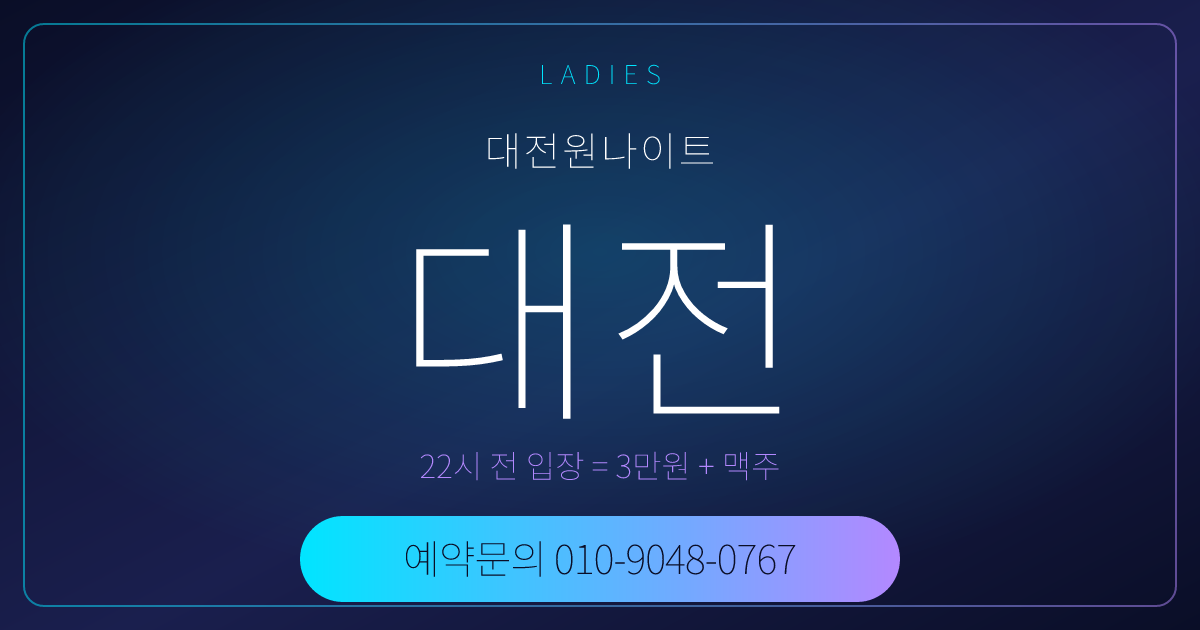
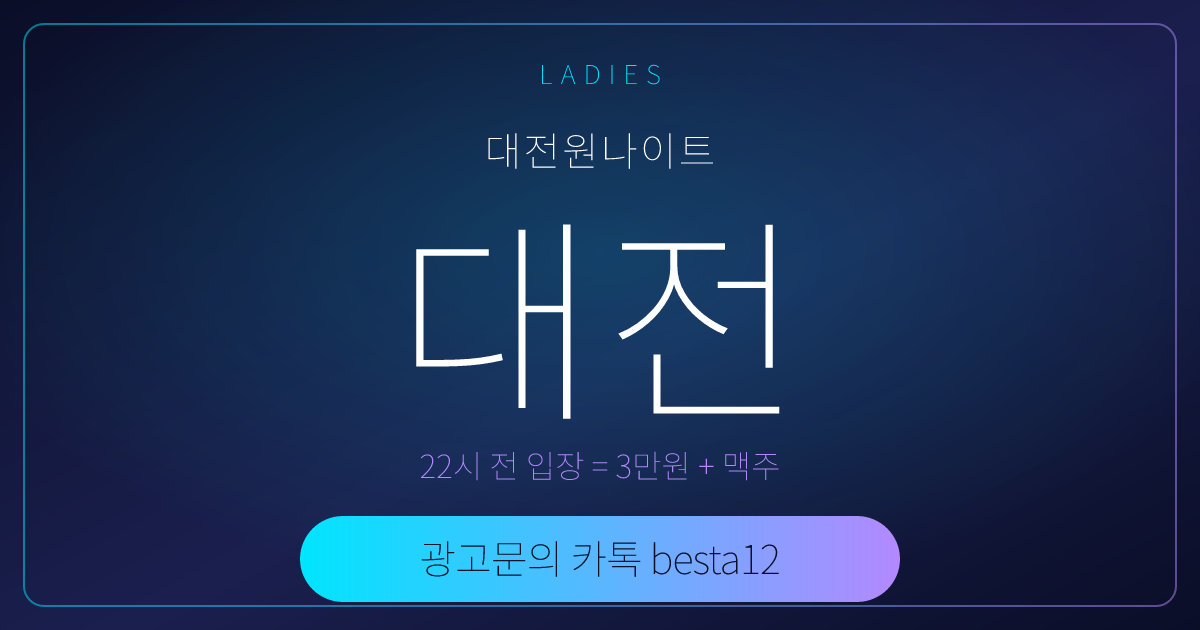
contact: 예약문의 전화(010 9048 0767) → 광고문의 카톡 besta12 전면 교체
- 하단 고정 바: tel: 링크 → 카톡 ID 복사 버튼(besta12)
- 전 페이지 본문·메타 설명·FAQ·JSON-LD 문의 안내 문구 교체
- NightClub/LocalBusiness telephone 속성 제거
- llms.txt 및 OG/네이버 이미지(카톡 besta12) 재생성
- audit-html / audits.yml / schema-validate.yml 검증 기준을 카톡 문구로 변경

Changed region(s): [[0.3392, 0.8444, 0.6475, 0.9349]]

diff --git a/scripts/generate-images.js b/scripts/generate-images.js
@@ -45,16 +45,16 @@ ${defs}
 <rect x="36" y="36" width="1008" height="1008" rx="24" fill="none" stroke="url(#ac)" stroke-width="2" opacity="0.55"/>
 <text x="540" y="150" font-family="Noto Sans KR" font-size="34" font-weight="500" fill="#00E5FF" text-anchor="middle" letter-spacing="10">DAEJEON ONE NIGHT</text>
 <line x1="380" y1="186" x2="700" y2="186" stroke="url(#ac)" stroke-width="2"/>
-<text x="540" y="232" font-family="Noto Sans KR" font-size="24" font-weight="400" fill="#B388FF" text-anchor="middle" letter-spacing="6">38세 이상 입장 · 예약 문의</text>
+<text x="540" y="232" font-family="Noto Sans KR" font-size="24" font-weight="400" fill="#B388FF" text-anchor="middle" letter-spacing="6">38세 이상 입장 · 광고 문의</text>
 <text x="540" y="430" font-family="Noto Sans KR" font-size="148" font-weight="900" fill="#FFFFFF" text-anchor="middle" letter-spacing="-4">대전원나이트</text>
 <rect x="280" y="490" width="520" height="120" rx="60" fill="url(#ac)"/>
-<text x="540" y="572" font-family="Noto Sans KR" font-size="78" font-weight="900" fill="#0A0E27" text-anchor="middle" letter-spacing="-2">예약 문의</text>
+<text x="540" y="572" font-family="Noto Sans KR" font-size="78" font-weight="900" fill="#0A0E27" text-anchor="middle" letter-spacing="-2">광고 문의</text>
 <rect x="60" y="670" width="960" height="120" rx="12" fill="rgba(0,229,255,0.10)" stroke="#00E5FF" stroke-width="2"/>
 <text x="540" y="720" font-family="Noto Sans KR" font-size="28" font-weight="500" fill="#00E5FF" text-anchor="middle">38세 이상 · 신분증 확인 · 카드 결제</text>
 <text x="540" y="762" font-family="Noto Sans KR" font-size="24" font-weight="400" fill="#FFFFFF" text-anchor="middle">평일 20:00 - 02:30 · 주말 20:00 - 03:30</text>
 <rect x="60" y="820" width="960" height="180" rx="12" fill="#FFFFFF"/>
-<text x="540" y="870" font-family="Noto Sans KR" font-size="26" font-weight="500" fill="#0A0E27" text-anchor="middle" letter-spacing="2">예약 · 안내 전화</text>
-<text x="540" y="955" font-family="Noto Sans KR" font-size="72" font-weight="900" fill="#0A0E27" text-anchor="middle" letter-spacing="-2">010-9048-0767</text>
+<text x="540" y="870" font-family="Noto Sans KR" font-size="26" font-weight="500" fill="#0A0E27" text-anchor="middle" letter-spacing="2">광고문의 카카오톡</text>
+<text x="540" y="955" font-family="Noto Sans KR" font-size="72" font-weight="900" fill="#0A0E27" text-anchor="middle" letter-spacing="-2">카톡 besta12</text>
 </svg>`;
 
 render(thumb, 'public/og/og-thumb.png', 1080, 1080);
@@ -68,11 +68,11 @@ ${defs}
 <line x1="460" y1="118" x2="740" y2="118" stroke="url(#ac)" stroke-width="2"/>
 <text x="600" y="252" font-family="Noto Sans KR" font-size="112" font-weight="900" fill="#FFFFFF" text-anchor="middle" letter-spacing="-3">대전원나이트</text>
 <rect x="420" y="290" width="360" height="84" rx="42" fill="url(#ac)"/>
-<text x="600" y="350" font-family="Noto Sans KR" font-size="50" font-weight="900" fill="#0A0E27" text-anchor="middle" letter-spacing="-1">예약 문의</text>
+<text x="600" y="350" font-family="Noto Sans KR" font-size="50" font-weight="900" fill="#0A0E27" text-anchor="middle" letter-spacing="-1">광고 문의</text>
 <text x="600" y="418" font-family="Noto Sans KR" font-size="24" font-weight="400" fill="#B388FF" text-anchor="middle" letter-spacing="3">38세 이상 입장 · 평일 새벽 2시반 · 주말 새벽 3시반</text>
 <rect x="280" y="460" width="640" height="118" rx="10" fill="rgba(0,229,255,0.10)" stroke="#00E5FF" stroke-width="2"/>
-<text x="600" y="503" font-family="Noto Sans KR" font-size="22" font-weight="500" fill="#FFFFFF" text-anchor="middle" letter-spacing="2">예약 · 안내</text>
-<text x="600" y="555" font-family="Noto Sans KR" font-size="44" font-weight="900" fill="#00E5FF" text-anchor="middle" letter-spacing="-1">010-9048-0767</text>
+<text x="600" y="503" font-family="Noto Sans KR" font-size="22" font-weight="500" fill="#FFFFFF" text-anchor="middle" letter-spacing="2">광고문의 카카오톡</text>
+<text x="600" y="555" font-family="Noto Sans KR" font-size="44" font-weight="900" fill="#00E5FF" text-anchor="middle" letter-spacing="-1">카톡 besta12</text>
 </svg>`;
 
 render(home, 'public/og/home.png', 1200, 630);
@@ -98,10 +98,10 @@ render(icon, 'public/favicon-16x16.png', 16, 16);
 
 const pages = [
   { name: 'info', kicker: 'ENTRY GUIDE', title: '38세부터 들어가는 법', sub: '처음이라면 꼭 보는 첫 방문 가이드' },
-  { name: 'hours', kicker: 'HOURS', title: '평일 새벽 2시반까지', sub: '주말은 새벽 3시반 · 예약 문의 응대' },
+  { name: 'hours', kicker: 'HOURS', title: '평일 새벽 2시반까지', sub: '주말은 새벽 3시반 · 카톡 문의 응대' },
   { name: 'ladies', kicker: 'LADIES', title: '22시 전 입장 = 3만원 + 맥주', sub: '교통비 3만원 + 맥주 1병 · 예약 안내' },
   { name: 'faq', kicker: 'FAQ', title: '자주 묻는 13가지 답변', sub: '입장·예약·위치·결제 한 페이지에' },
-  { name: 'contact', kicker: 'CONTACT', title: '예약문의 010-9048-0767', sub: '예약·룸·단체 모두 안내' },
+  { name: 'contact', kicker: 'CONTACT', title: '예약·룸·단체 문의 안내', sub: '예약·룸·단체 모두 안내' },
 ];
 
 pages.forEach((p) => {
@@ -116,7 +116,7 @@ ${defs}
 <text x="600" y="404" font-family="Noto Sans KR" font-size="220" font-weight="900" fill="#FFFFFF" text-anchor="middle" letter-spacing="6">대전</text>
 <text x="600" y="478" font-family="Noto Sans KR" font-size="32" font-weight="500" fill="#B388FF" text-anchor="middle">${p.title}</text>
 <rect x="300" y="516" width="600" height="86" rx="43" fill="url(#ac)"/>
-<text x="600" y="574" font-family="Noto Sans KR" font-size="40" font-weight="900" fill="#0A0E27" text-anchor="middle" letter-spacing="-1">예약문의 010-9048-0767</text>
+<text x="600" y="574" font-family="Noto Sans KR" font-size="40" font-weight="900" fill="#0A0E27" text-anchor="middle" letter-spacing="-1">광고문의 카톡 besta12</text>
 </svg>`;
   render(svg, `public/og/${p.name}.png`, 1200, 630);
 });
@@ -132,8 +132,8 @@ ${defs}
 <text x="540" y="278" font-family="Noto Sans KR" font-size="84" font-weight="700" fill="#FFFFFF" text-anchor="middle" letter-spacing="2">대전원나이트</text>
 <text x="540" y="640" font-family="Noto Sans KR" font-size="300" font-weight="900" fill="#FFFFFF" text-anchor="middle" letter-spacing="10">대전</text>
 <rect x="240" y="720" width="600" height="98" rx="49" fill="url(#ac)"/>
-<text x="540" y="787" font-family="Noto Sans KR" font-size="44" font-weight="900" fill="#0A0E27" text-anchor="middle" letter-spacing="1">예약 · 안내 직통</text>
-<text x="540" y="910" font-family="Noto Sans KR" font-size="82" font-weight="900" fill="#FFFFFF" text-anchor="middle" letter-spacing="-2">010-9048-0767</text>
+<text x="540" y="787" font-family="Noto Sans KR" font-size="44" font-weight="900" fill="#0A0E27" text-anchor="middle" letter-spacing="1">광고문의 카카오톡</text>
+<text x="540" y="910" font-family="Noto Sans KR" font-size="82" font-weight="900" fill="#FFFFFF" text-anchor="middle" letter-spacing="-2">카톡 besta12</text>
 <text x="540" y="972" font-family="Noto Sans KR" font-size="30" font-weight="400" fill="#B388FF" text-anchor="middle">평일 20:00 - 02:30 · 주말 20:00 - 03:30</text>
 </svg>`;
 
@@ -150,8 +150,8 @@ ${defs}
 <text x="540" y="300" font-family="Noto Sans KR" font-size="90" font-weight="900" fill="#FFFFFF" text-anchor="middle" letter-spacing="2">대전원나이트</text>
 <text x="540" y="702" font-family="Noto Sans KR" font-size="380" font-weight="900" fill="url(#ac)" text-anchor="middle" letter-spacing="12">대전</text>
 <rect x="206" y="798" width="668" height="126" rx="63" fill="#FFFFFF"/>
-<text x="540" y="884" font-family="Noto Sans KR" font-size="66" font-weight="900" fill="#0A0E27" text-anchor="middle" letter-spacing="-1">010-9048-0767</text>
-<text x="540" y="1002" font-family="Noto Sans KR" font-size="42" font-weight="700" fill="#00E5FF" text-anchor="middle" letter-spacing="3">새벽까지 논스톱 · 예약문의 직통</text>
+<text x="540" y="884" font-family="Noto Sans KR" font-size="66" font-weight="900" fill="#0A0E27" text-anchor="middle" letter-spacing="-1">카톡 besta12</text>
+<text x="540" y="1002" font-family="Noto Sans KR" font-size="42" font-weight="700" fill="#00E5FF" text-anchor="middle" letter-spacing="3">새벽까지 논스톱 · 광고문의 카톡</text>
 </svg>`;
 
 render(blog, 'public/og/blog.png', 1080, 1080);

diff --git a/components/Schema.tsx b/components/Schema.tsx
@@ -15,16 +15,16 @@ const FAQ_ITEMS = [
     a: '22시 이전 입장 여성 손님에게는 교통비 3만원 지원과 맥주 1병이 기본으로 제공됩니다. 신분증 확인 후 적용되며 운영 정책에 따라 변경될 수 있습니다.',
   },
   { q: '영업 시간은?', a: '평일 20:00 ~ 02:30 / 주말 20:00 ~ 03:30 영업합니다.' },
-  { q: '예약은 어떻게 하나요?', a: '전화 예약을 권장합니다. 예약·문의는 페이지 하단 예약문의 전화로 안내드립니다.' },
-  { q: '위치는 어디인가요?', a: '대전광역시 시내에 위치합니다. 정확한 위치는 예약 시 전화로 안내드립니다.' },
+  { q: '예약은 어떻게 하나요?', a: '카카오톡 문의를 권장합니다. 문의는 페이지 하단 광고문의 카톡 besta12로 안내드립니다.' },
+  { q: '위치는 어디인가요?', a: '대전광역시 시내에 위치합니다. 정확한 위치는 예약 시 카톡 besta12로 안내드립니다.' },
   { q: '드레스코드가 있나요?', a: '깔끔한 캐주얼 복장을 권장합니다. 슬리퍼, 반바지는 제한될 수 있습니다.' },
   { q: '주차는 가능한가요?', a: '주변 공영주차장 이용을 권장합니다.' },
   { q: '카드 결제가 되나요?', a: '네, 카드 결제 가능합니다.' },
-  { q: '룸 예약이 가능한가요?', a: '예약 가능합니다. 직통 전화로 문의해 주세요.' },
+  { q: '룸 예약이 가능한가요?', a: '예약 가능합니다. 카톡 besta12로 문의해 주세요.' },
   { q: '단체 모임도 받나요?', a: '5인 이상 단체는 예약을 권장합니다.' },
   { q: '청주에서 가는 방법은?', a: '자차로 약 30분 거리입니다.' },
   { q: '신분증은 꼭 필요한가요?', a: '네, 입장 연령 확인을 위해 신분증이 필수입니다.' },
-  { q: '문의 채널은?', a: '전화로 안내드립니다. 예약·문의는 페이지 하단 예약문의 전화를 이용해 주세요.' },
+  { q: '문의 채널은?', a: '카카오톡으로 안내드립니다. 문의는 페이지 하단 광고문의 카톡 besta12를 이용해 주세요.' },
 ];
 
 export default function Schema({ path, crumb, pageType = 'WebPage', includeFaq, includeHowTo }: Props) {
@@ -48,7 +48,6 @@ export default function Schema({ path, crumb, pageType = 'WebPage', includeFaq, 
         '@id': `${SITE}/#nightclub`,
         name: '대전원나이트',
         url: `${SITE}/`,
-        telephone: '+82-10-9048-0767',
         address: {
           '@type': 'PostalAddress',
           addressLocality: '대전광역시',
@@ -80,7 +79,6 @@ export default function Schema({ path, crumb, pageType = 'WebPage', includeFaq, 
         '@type': 'LocalBusiness',
         '@id': `${SITE}/#business`,
         name: '대전원나이트',
-        telephone: '+82-10-9048-0767',
         url: `${SITE}/`,
         priceRange: '₩₩',
         image: `${SITE}/og/og-thumb.png`,
@@ -125,7 +123,7 @@ export default function Schema({ path, crumb, pageType = 'WebPage', includeFaq, 
           { '@type': 'HowToStep', text: '38세 이상 신분증 준비' },
           { '@type': 'HowToStep', text: '여성 손님은 22시 이전 입장 (교통비 + 맥주 제공)' },
           { '@type': 'HowToStep', text: '깔끔한 캐주얼 복장 착용' },
-          { '@type': 'HowToStep', text: '전화로 좌석·룸 예약' },
+          { '@type': 'HowToStep', text: '카톡 besta12로 좌석·룸 예약' },
           { '@type': 'HowToStep', text: '주변 공영주차장 이용' },
         ],
       }

diff --git a/pages/index.tsx b/pages/index.tsx
@@ -9,7 +9,7 @@ export default function Home() {
     <>
       <SEO
         title="대전원나이트 - 38세 이상 입장·예약 안내"
-        description="대전원나이트 공식 안내. 38세 이상 입장, 22시 이전 입장 여성 손님 교통비 3만원과 맥주 1병 기본 제공. 평일 새벽 2시반 / 주말 새벽 3시반까지. 예약·문의는 페이지 하단 예약문의 전화로 안내드립니다."
+        description="대전원나이트 공식 안내. 38세 이상 입장, 22시 이전 입장 여성 손님 교통비 3만원과 맥주 1병 기본 제공. 평일 새벽 2시반 / 주말 새벽 3시반까지. 문의는 페이지 하단 광고문의 카톡 besta12로 안내드립니다."
         path="/"
         ogImage="/og/home.png"
       />
@@ -20,7 +20,7 @@ export default function Home() {
           <h1>
             대전원나이트 <span className="accent">공식 안내</span>
           </h1>
-          <p>38세 이상 입장 · 매일 20:00 영업 시작 · 예약은 직통 전화로 안내드립니다.</p>
+          <p>38세 이상 입장 · 매일 20:00 영업 시작 · 문의는 카톡 besta12로 안내드립니다.</p>
           <div className="cta-row">
             <Link href="/contact" className="cta-primary">
               예약 · 문의 안내
@@ -50,11 +50,11 @@ export default function Home() {
                 </tr>
                 <tr>
                   <th>위치</th>
-                  <td>대전광역시 (정확한 위치는 직통 전화로 안내)</td>
+                  <td>대전광역시 (정확한 위치는 카톡 besta12로 안내)</td>
                 </tr>
                 <tr>
                   <th>예약·문의</th>
-                  <td>페이지 하단 예약문의 전화로 안내</td>
+                  <td>페이지 하단 광고문의 카톡 besta12로 안내</td>
                 </tr>
                 <tr>
                   <th>결제</th>
@@ -125,11 +125,11 @@ export default function Home() {
               </details>
               <details className="faq">
                 <summary>예약은 어떻게 하나요?</summary>
-                <p>전화 예약을 권장합니다. 예약·문의는 페이지 하단 예약문의 전화로 안내드립니다.</p>
+                <p>카카오톡 문의를 권장합니다. 문의는 페이지 하단 광고문의 카톡 besta12로 안내드립니다.</p>
               </details>
               <details className="faq">
                 <summary>위치는 어디인가요?</summary>
-                <p>대전광역시 시내에 위치합니다. 정확한 위치는 예약 시 전화로 안내드립니다.</p>
+                <p>대전광역시 시내에 위치합니다. 정확한 위치는 예약 시 카톡 besta12로 안내드립니다.</p>
               </details>
             </div>
           </section>

diff --git a/pages/contact.tsx b/pages/contact.tsx
@@ -8,7 +8,7 @@ export default function Contact() {
     <>
       <SEO
         title="대전원나이트 예약·문의 안내"
-        description="대전원나이트 예약·룸·단체·VIP·일반 안내. 영업 시간 내 직접 응대합니다. 예약·문의는 페이지 하단 예약문의 전화로 한 번에 안내해 드립니다."
+        description="대전원나이트 예약·룸·단체·VIP·일반 안내. 영업 시간 내 직접 응대합니다. 문의는 페이지 하단 광고문의 카톡 besta12로 한 번에 안내해 드립니다."
         path="/contact"
         ogImage="/og/contact.png"
       />
@@ -19,7 +19,7 @@ export default function Contact() {
           <h1>
             예약 · <span className="accent">문의</span>
           </h1>
-          <p>예약 및 일반 문의는 페이지 하단 예약문의 전화로 안내드립니다.</p>
+          <p>예약 및 일반 문의는 페이지 하단 광고문의 카톡 besta12로 안내드립니다.</p>
         </div>
         <div className="container">
           <PolicyBanner />
@@ -31,10 +31,10 @@ export default function Contact() {
             </h2>
             <div className="bento">
               <div className="bento-card">
-                <div className="bento-kicker">PHONE</div>
-                <h3>예약·문의 전화</h3>
+                <div className="bento-kicker">KAKAO</div>
+                <h3>광고문의 카톡</h3>
                 <p>
-                  예약·룸 안내·단체 모임 등 모든 문의는 페이지 하단 예약문의 전화로 접수되며 직접 응대해 드립니다.
+                  예약·룸 안내·단체 모임 등 모든 문의는 페이지 하단 광고문의 카톡 besta12로 접수되며 직접 응대해 드립니다.
                 </p>
               </div>
               <div className="bento-card">
@@ -50,7 +50,7 @@ export default function Contact() {
               <div className="bento-card">
                 <div className="bento-kicker">LOCATION</div>
                 <h3>위치 안내</h3>
-                <p>대전광역시 시내에 위치합니다. 정확한 위치는 예약 시 직통 전화로 안내드립니다.</p>
+                <p>대전광역시 시내에 위치합니다. 정확한 위치는 예약 시 카톡 besta12로 안내드립니다.</p>
               </div>
             </div>
           </section>

diff --git a/components/Layout.tsx b/components/Layout.tsx
@@ -1,6 +1,9 @@
 import Link from 'next/link';
 import { useRouter } from 'next/router';
+import { useState } from 'react';
 import type { ReactNode } from 'react';
+
+const KAKAO_ID = 'besta12';
 
 const NAV = [
   { href: '/', label: '홈' },
@@ -13,8 +16,18 @@ const NAV = [
 
 export default function Layout({ children }: { children: ReactNode }) {
   const router = useRouter();
+  const [copied, setCopied] = useState(false);
   const isActive = (p: string) =>
     p === '/' ? router.pathname === '/' : router.pathname.startsWith(p);
+  const copyKakaoId = async () => {
+    try {
+      await navigator.clipboard.writeText(KAKAO_ID);
+      setCopied(true);
+      setTimeout(() => setCopied(false), 2000);
+    } catch {
+      // 클립보드 권한이 없으면 아이디는 화면에 그대로 노출되므로 별도 처리 없음
+    }
+  };
   return (
     <>
       <a href="#main" className="skip-link">
@@ -49,12 +62,19 @@ export default function Layout({ children }: { children: ReactNode }) {
           <p className="footer-copy">© 2026 대전원나이트 · 본 사이트는 업소의 공식 안내 페이지입니다</p>
         </div>
       </footer>
-      <a href="tel:01090480767" className="call-bar" aria-label="예약문의 010 9048 0767 전화 걸기">
+      <button
+        type="button"
+        className="call-bar"
+        onClick={copyKakaoId}
+        aria-label={`광고문의 카톡 ${KAKAO_ID} 아이디 복사`}
+      >
         <span className="call-bar-icon" aria-hidden="true">
-          📞
+          💬
         </span>
-        <span className="call-bar-text">예약문의 010 9048 0767</span>
-      </a>
+        <span className="call-bar-text">
+          {copied ? `카톡 아이디 ${KAKAO_ID} 복사됨` : `광고문의 카톡 ${KAKAO_ID}`}
+        </span>
+      </button>
     </>
   );
 }

diff --git a/pages/info.tsx b/pages/info.tsx
@@ -8,7 +8,7 @@ export default function Info() {
     <>
       <SEO
         title="38세부터 들어가는 법 - 대전원나이트 입장 가이드"
-        description="대전원나이트 첫 방문이 처음이라면. 신분증·드레스코드·시간대·결제·주차까지 한 번에 알려주는 입장 가이드. 예약·문의는 페이지 하단 예약문의 전화로 확인하세요."
+        description="대전원나이트 첫 방문이 처음이라면. 신분증·드레스코드·시간대·결제·주차까지 한 번에 알려주는 입장 가이드. 문의는 페이지 하단 광고문의 카톡 besta12로 확인하세요."
         path="/info"
         ogImage="/og/info.png"
       />
@@ -47,8 +47,8 @@ export default function Info() {
               </div>
               <div className="bento-card">
                 <div className="bento-kicker">04</div>
-                <h3>예약 전화</h3>
-                <p>좌석·룸 예약은 페이지 하단 예약문의 전화로 진행하며, 직접 응대해 드립니다.</p>
+                <h3>예약 문의</h3>
+                <p>좌석·룸 예약은 페이지 하단 광고문의 카톡 besta12로 진행하며, 직접 응대해 드립니다.</p>
               </div>
               <div className="bento-card">
                 <div className="bento-kicker">05</div>
@@ -84,7 +84,7 @@ export default function Info() {
                 </tr>
                 <tr>
                   <th>예약</th>
-                  <td>페이지 하단 예약문의 전화</td>
+                  <td>페이지 하단 광고문의 카톡 besta12</td>
                 </tr>
                 <tr>
                   <th>결제</th>

diff --git a/pages/hours.tsx b/pages/hours.tsx
@@ -8,7 +8,7 @@ export default function Hours() {
     <>
       <SEO
         title="대전원나이트 영업 시간 - 평일 새벽 2시반 / 주말 3시반까지"
-        description="대전원나이트 영업 시간 안내. 평일 20:00 - 02:30, 주말 20:00 - 03:30. 22시 이전 입장 여성 손님 혜택 시간대까지 한눈에. 예약·문의는 페이지 하단 예약문의 전화로 안내드립니다."
+        description="대전원나이트 영업 시간 안내. 평일 20:00 - 02:30, 주말 20:00 - 03:30. 22시 이전 입장 여성 손님 혜택 시간대까지 한눈에. 문의는 페이지 하단 광고문의 카톡 besta12로 안내드립니다."
         path="/hours"
         ogImage="/og/hours.png"
       />
@@ -62,7 +62,7 @@ export default function Hours() {
               </tbody>
             </table>
             <p style={{ color: '#7a82a8', fontSize: '0.92rem', marginTop: 24 }}>
-              ※ 공휴일·연휴 영업 시간은 변경될 수 있습니다. 방문 전 페이지 하단 예약문의 전화로 확인해 주세요.
+              ※ 공휴일·연휴 영업 시간은 변경될 수 있습니다. 방문 전 페이지 하단 광고문의 카톡 besta12로 확인해 주세요.
             </p>
           </section>
 

diff --git a/pages/ladies.tsx b/pages/ladies.tsx
@@ -8,7 +8,7 @@ export default function Ladies() {
     <>
       <SEO
         title="22시 전 입장 = 교통비 3만원 + 맥주 - 대전원나이트"
-        description="대전원나이트 여성 손님 안내. 22시 이전 입장 시 교통비 3만원 지원과 맥주 1병 기본 제공. 38세 이상 신분증 확인 후 적용. 예약·문의는 페이지 하단 예약문의 전화로 안내드립니다."
+        description="대전원나이트 여성 손님 안내. 22시 이전 입장 시 교통비 3만원 지원과 맥주 1병 기본 제공. 38세 이상 신분증 확인 후 적용. 문의는 페이지 하단 광고문의 카톡 besta12로 안내드립니다."
         path="/ladies"
         ogImage="/og/ladies.png"
       />
@@ -83,7 +83,7 @@ export default function Ladies() {
               </div>
             </div>
             <p style={{ marginTop: 24 }}>
-              자세한 안내는 페이지 하단 예약문의 전화로 문의해 주세요. 직접 응대해 드립니다.
+              자세한 안내는 페이지 하단 광고문의 카톡 besta12로 문의해 주세요. 직접 응대해 드립니다.
             </p>
           </section>
         </div>

diff --git a/pages/faq.tsx b/pages/faq.tsx
@@ -8,7 +8,7 @@ export default function Faq() {
     <>
       <SEO
         title="대전원나이트 FAQ - 자주 묻는 13가지"
-        description="대전원나이트 자주 묻는 질문 13가지. 입장 연령, 22시 전 여성 손님 안내, 영업 시간, 위치, 결제, 드레스코드까지 한 페이지에. 예약·문의는 페이지 하단 예약문의 전화로 안내드립니다."
+        description="대전원나이트 자주 묻는 질문 13가지. 입장 연령, 22시 전 여성 손님 안내, 영업 시간, 위치, 결제, 드레스코드까지 한 페이지에. 문의는 페이지 하단 광고문의 카톡 besta12로 안내드립니다."
         path="/faq"
         ogImage="/og/faq.png"
       />

diff --git a/scripts/audit-html.js b/scripts/audit-html.js
@@ -87,8 +87,8 @@ for (const p of PAGES) {
 
   if (/href="http:\/\//.test(html)) log('FAIL', p, 'plain http:// link present');
 
-  if (/<a[^>]*href="tel:[^"]*"/.test(html)) log('OK   ', p, 'tel: link present');
-  else log('FAIL', p, 'no tel: link');
+  if (/광고문의 카톡 besta12/.test(html)) log('OK   ', p, 'kakao contact present');
+  else log('FAIL', p, 'no kakao contact (광고문의 카톡 besta12)');
 }
 
 if (fails) {

diff --git a/styles/globals.css b/styles/globals.css
@@ -469,6 +469,10 @@ section.section p {
   gap: 10px;
   text-align: center;
   text-decoration: none;
+  border: 0;
+  appearance: none;
+  font-family: inherit;
+  cursor: pointer;
 }
 .call-bar:hover {
   filter: brightness(1.04);
